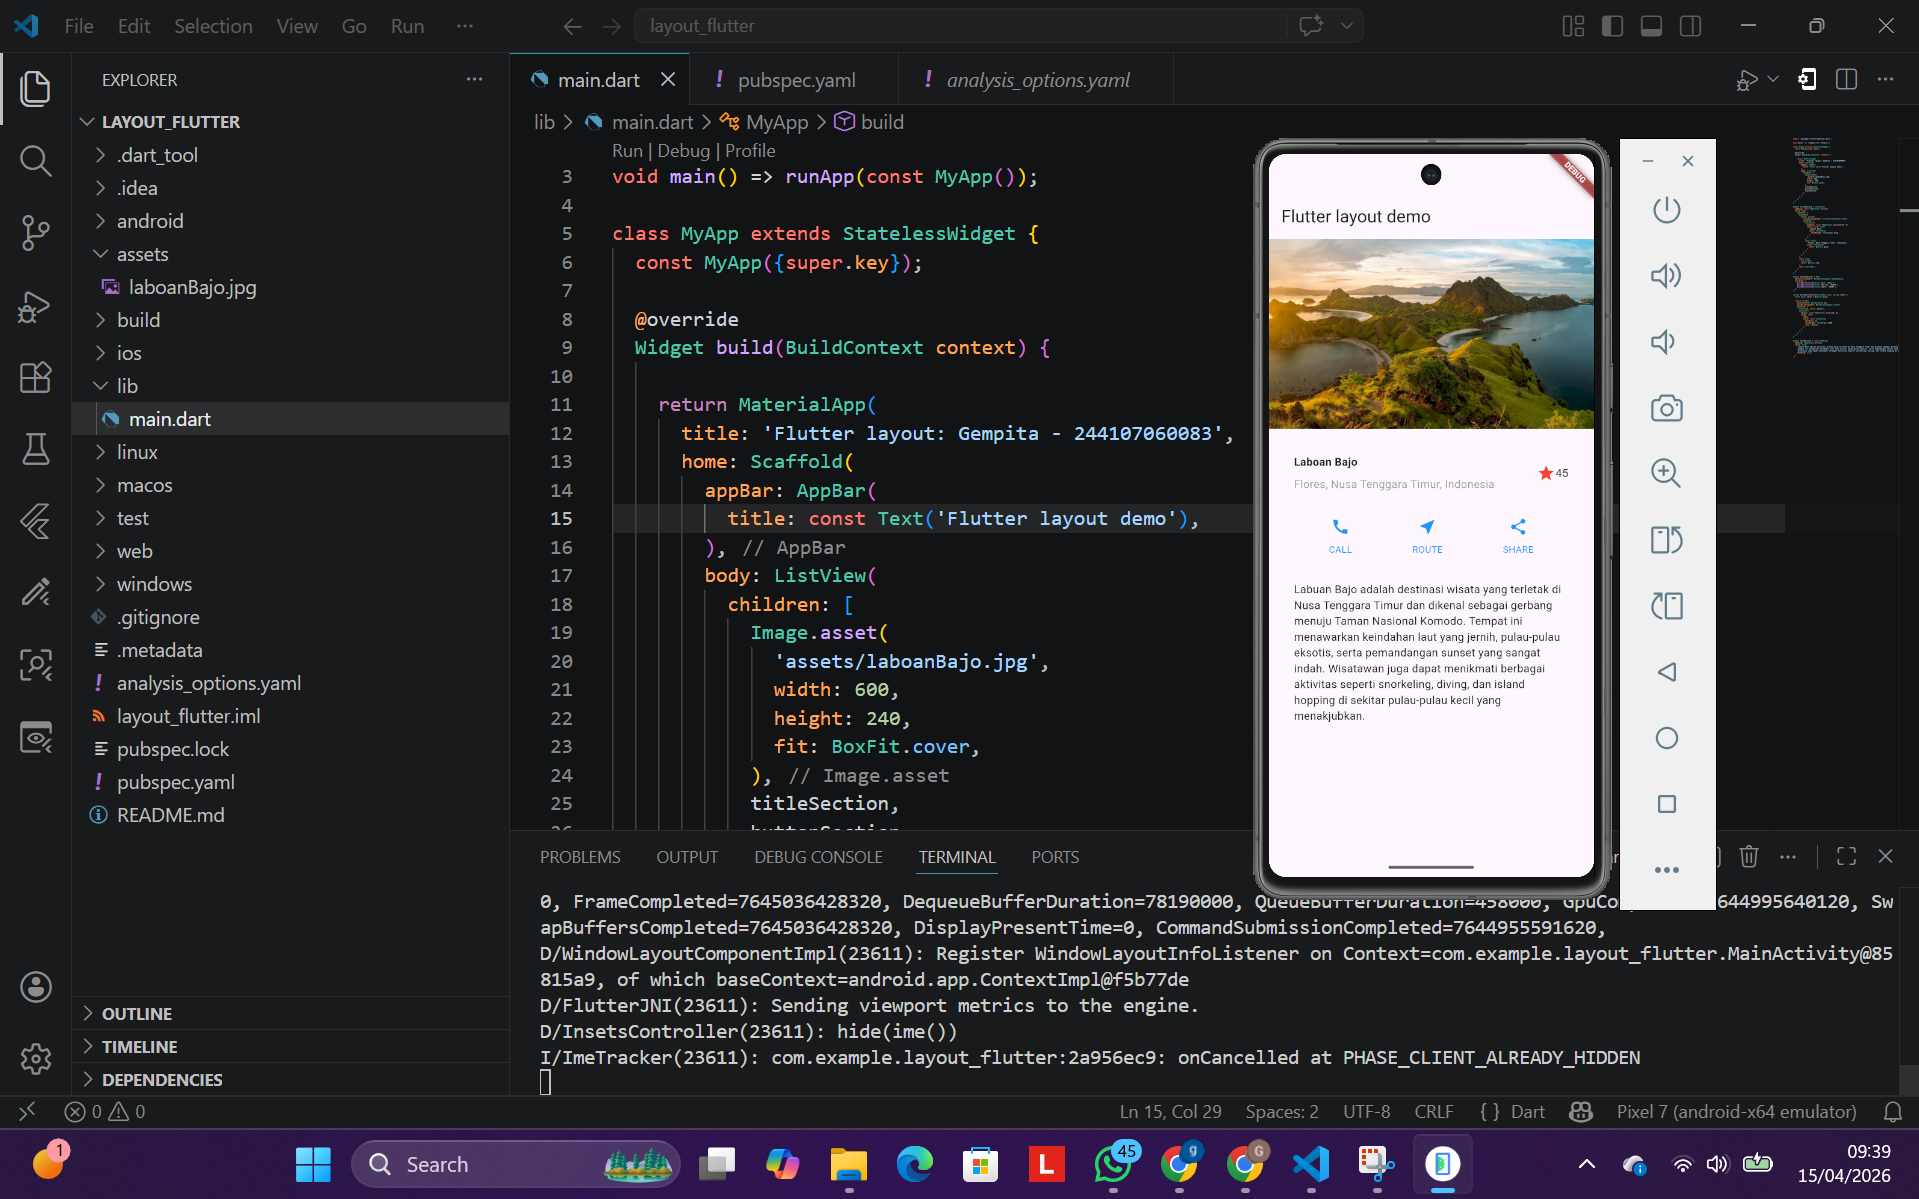
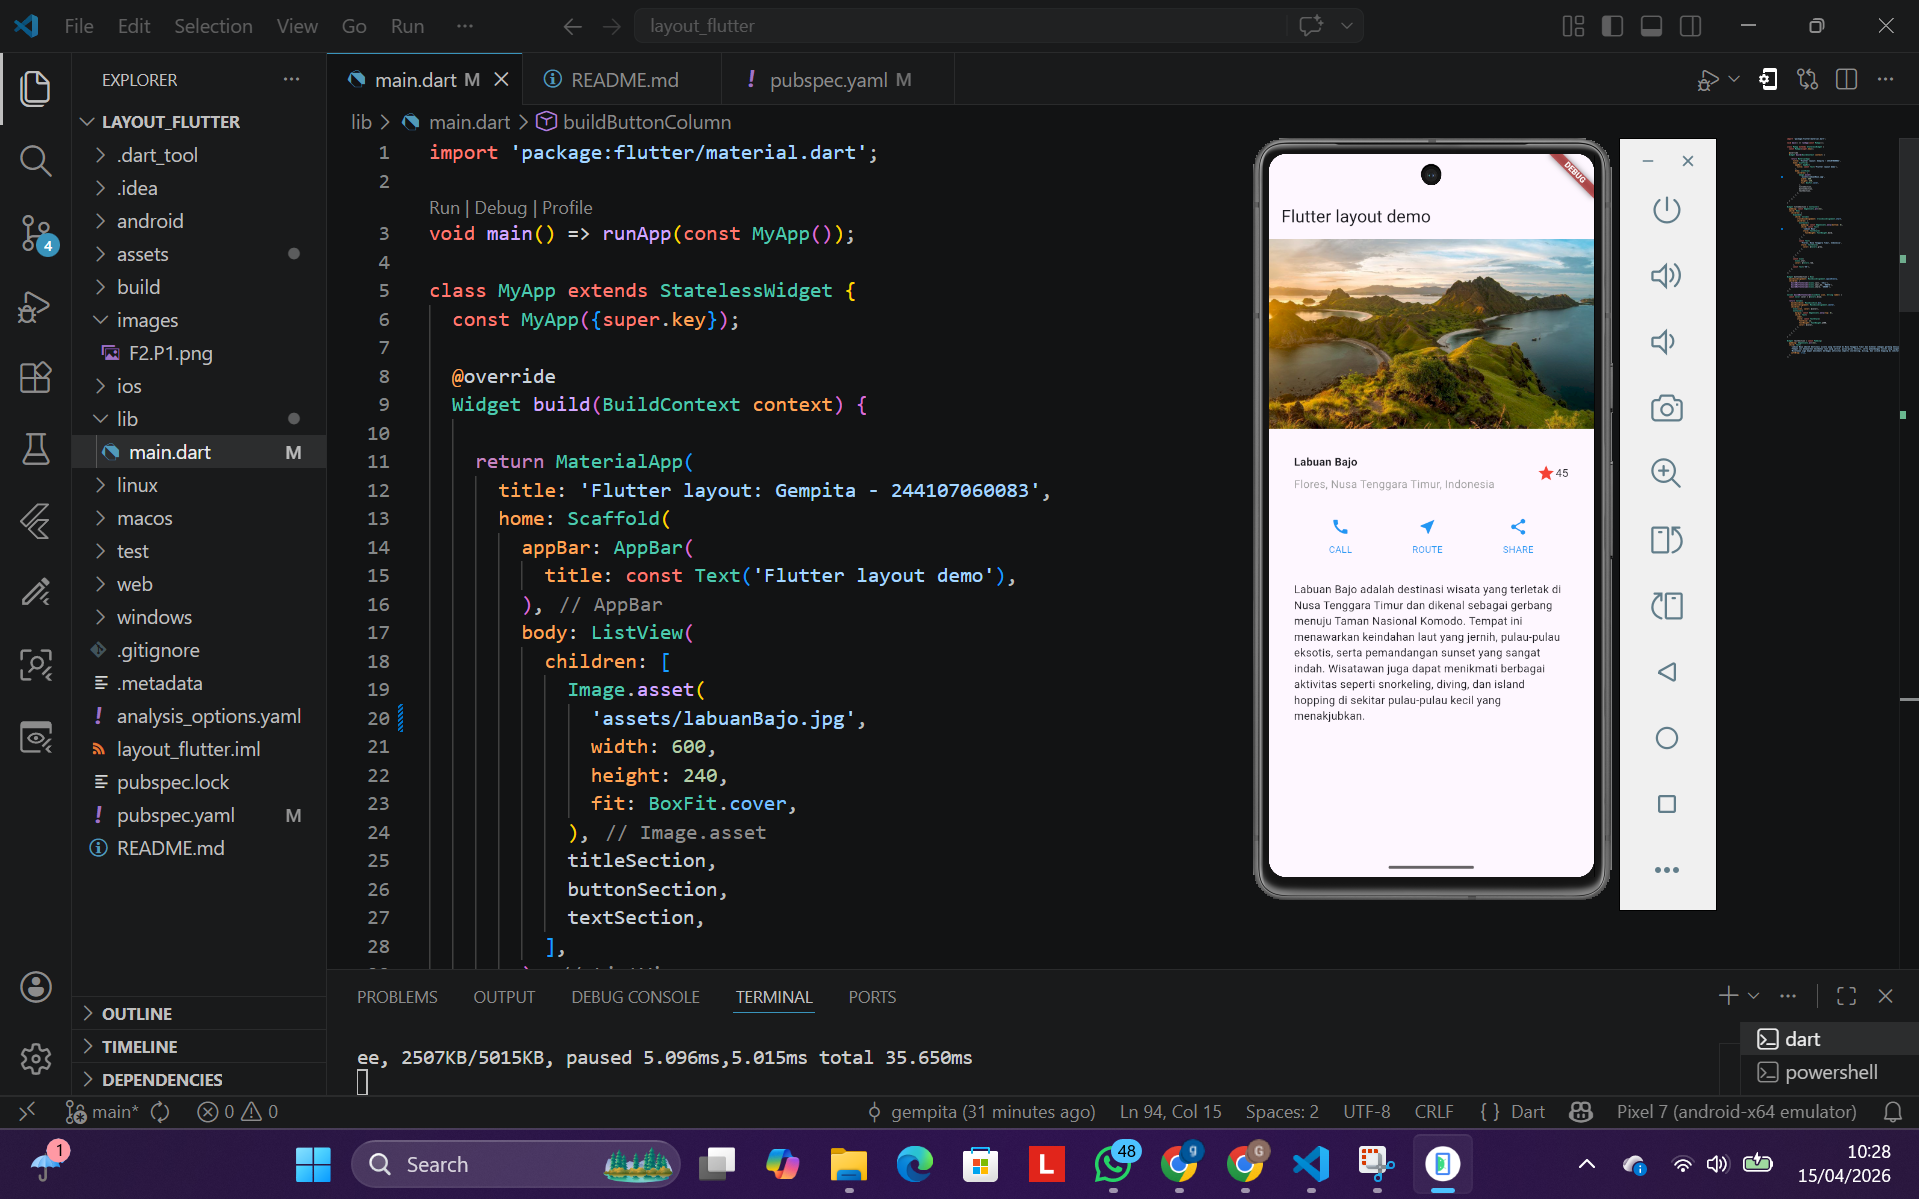
layout flutter p1

diff --git a/lib/main.dart b/lib/main.dart
@@ -17,7 +17,7 @@ class MyApp extends StatelessWidget {
         body: ListView(
           children: [
             Image.asset(
-              'assets/laboanBajo.jpg',
+              'assets/labuanBajo.jpg',
               width: 600,
               height: 240,
               fit: BoxFit.cover,
@@ -43,7 +43,7 @@ Widget titleSection = Container(
             Container(
               padding: const EdgeInsets.only(bottom: 8),
               child: const Text(
-                'Laboan Bajo',
+                'Labuan Bajo',
                 style: TextStyle(
                   fontWeight: FontWeight.bold,
                 ),

diff --git a/README.md b/README.md
@@ -12,4 +12,4 @@
 Pada tahap ini saya membuat layout sederhana menggunakan Flutter dengan widget Row, Column, Container, dan Expanded. Layout tersebut digunakan untuk menampilkan informasi wisata Labuan Bajo seperti gambar, judul, lokasi, rating, tombol aksi, dan deskripsi.
 
 Pada tahap ini saya juga mempelajari cara mengatur posisi elemen menggunakan Row dan Column, serta memberikan jarak menggunakan padding agar tampilan lebih rapi.
-![Screenshot layout_flutter](images/F2.P1.png)
+![Screenshot layout_flutter](images/f2.p1.png)
